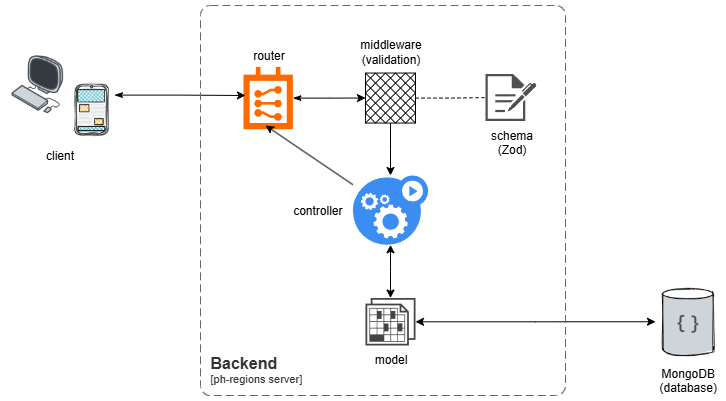
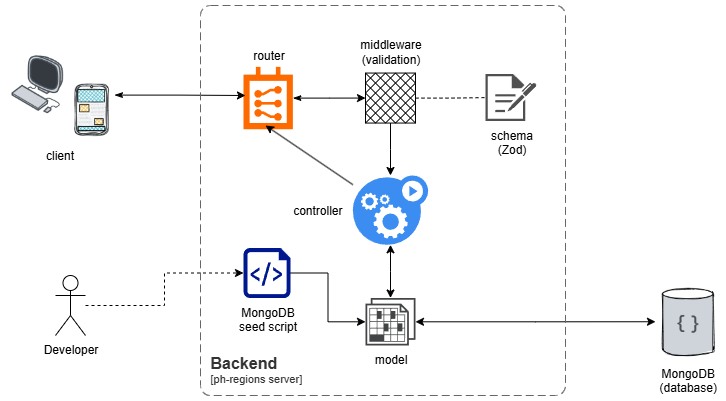
Merge pull request #20 from weaponsforge/chore/text-updates-20250922
chore: text and diagram updates

Pull request: chore: text and diagram updates
- Chore: display the MongoDB seed script in the architecture diagram
- Docs: display local development screenshots
- Docs: add a Quickstart section in the README
- Chore: update text content in the README

<!-- This is an auto-generated comment: release notes by coderabbit.ai -->
## Summary by CodeRabbit

* **Documentation**
  * Added Online Demo section with REST API URL and links to static and interactive API docs.
  * Introduced Quickstart with Docker-first setup, building/running containers, seeding, and access instructions; updated Installation/Seed steps accordingly.
  * Added Local Development Screenshots and clarified OpenAPI doc generation notes (adjusted compose line references).
  * Expanded “Adding New Endpoints” guidance (Zod meta/examples, typing, validation middleware, OpenAPI linking, clearer HTTP location names).
  * Updated core libraries table; added assets/README and refreshed architecture diagram to include seed script and developer flow.
<!-- end of auto-generated comment: release notes by coderabbit.ai -->

diff --git a/README.md b/README.md
@@ -9,6 +9,13 @@ A RESTful API that serves **hierarchical location data** of the Philippines — 
[1 lines of base64/hex data omitted]
 <!-- DeepWiki badge generated by https://deepwiki.ryoppippi.com/ -->
 
+### Online Demo
+
+- REST API: <https://ph-regions.vercel.app/api>
+- API documentation
+  - Static: <https://ph-regions.vercel.app>
+  - Interactive: <https://ph-regions.vercel.app/docs>
+
 <br>
 
 <div align="center">
@@ -18,18 +25,19 @@ A RESTful API that serves **hierarchical location data** of the Philippines — 
 </div>
 <br>
 
-### Online Deployments
+### Local Development Screenshots
 
-- REST API: <https://ph-regions.vercel.app/api>
-- API documentation
-   - Static: <https://ph-regions.vercel.app>
-   - Interactive: <https://ph-regions.vercel.app/docs>
+<p align="center">
+   <img src="assets/ph_regions_ss_01.png" width="45%" loading="lazy" alt="Static API docs screenshot" />
+   <img src="assets/ph_regions_ss_02.png" width="45%" loading="lazy" alt="Interactive API docs screenshot" />
+</p>
 
 ### Table of Contents
 
 - [Requirements](#-requirements)
 - [Core Libraries/Frameworks](#-core-librariesframeworks)
 - [Project Folder Structure](#-project-folder-structure)
+- [Quickstart](#-quickstart)
 - [Installation](#️-installation)
 - [Usage](#-usage)
    - [Using Docker](#-using-docker)
@@ -63,9 +71,9 @@ We welcome contributions! Please see [CONTRIBUTING.md](./CONTRIBUTING.md) for gu
 | tsx | `4.20.3` | Executes TypeScript and TSX files directly, ideal for dev and script running. |
 | tsc-alias | `1.8.16` | Rewrites path aliases in compiled TypeScript output (`tsconfig` paths). |
 | ESlint | `9.32.0` | Linting tool that enforces code style, quality, and formatting rules. |
-| @asteasolutions/zod-to-openapi | `8.1.0` | Generates an OpenAPI yaml file from Zod schemas. |
-| @redocly/cli | `2.1.0` | Generates an API documentation using an OpenAPI yaml input. |
-| swagger-ui-express | `4.1.8` | Generates a Swagger UI API documentation using an OpenAPI json input. |
+| @asteasolutions/zod-to-openapi | `8.1.0` | Generates OpenAPI YAML and JSON files from Zod schemas. |
+| @redocly/cli | `2.1.0` | Generates an API documentation using an OpenAPI YAML input. |
+| swagger-ui-express | `4.1.8` | Generates a Swagger UI API documentation using an OpenAPI JSON input. |
 
 </details>
 <br>
@@ -89,6 +97,25 @@ The main app is inside the `📂 server/src` folder.
 - 🖥️ `server.ts` - Starts the server and listens for requests
 
 <br>
+
+## 🆕 Quickstart
+
+Follow these steps to set up and use the code repository easily. Read the [Installation](#️-installation) section for detailed setup and usage instructions.
+
+1. Create a `.env` file in the `/server` directory, copying the contents of the `.env.example` file.
+
+2. Build the development images.<br>
+`docker compose build`
+
+3. Run the development containers.<br>
+`docker compose up`
+
+4. Create initial data.<br>
+`docker exec -it weaponsforge-ph-regions npm run seed`
+
+5. Access the available resources:
+   - REST API documentation: http://localhost:3001
+   - REST API endpoints: http://localhost:3001/api
 
 ## 🛠️ Installation
 
@@ -121,8 +148,8 @@ The main app is inside the `📂 server/src` folder.
 
 4. Seed (create) the initial data set.<br>
    - This step requires running the `"npm run seed"` script.
-   - Proceed to the [**"Using Docker"**](#-using-docker) section for more information on running the app using Docker.
-   - Run the command after successfully running the server app from **Usage - Using Docker - step # 3**.
+   - Proceed to the [**"Using Docker"**](#-using-docker) section for more information on running the app first using Docker.
+   - Run the command after successfully running the server app using Docker from [A. Use Pre-Built Development Docker Image](#a-use-pre-built-development-docker-image) or [B. Build the Development Docker Image](#b-build-the-development-docker-image).
       ```sh
       docker exec -it weaponsforge-ph-regions npm run seed
       ```
@@ -285,7 +312,7 @@ Runs the database seeder script, inserting initial data contents to the database
 
 Generates the OpenAPI `openapi.yaml` (YAML) and `openapi.json` (JSON) files into the `/server/public` directory.
 
-> 💡 **NOTE:** Comment out **Line #20, [public folder volume]** in the `docker-compose.yml` file to update the `"/server/public/openapi.yaml"` and `"/server/public/openapi.json"` files in the host volume.
+> 💡 **NOTE:** Comment out **Line #21, under [public folder volume]** in the `docker-compose.yml` file to update the `"/server/public/openapi.yaml"` and `"/server/public/openapi.json"` files in the host volume.
 
 ### `npm run docs:build`
 
@@ -295,13 +322,13 @@ Builds the API documentation using the [Redocly CLI](https://www.npmjs.com/packa
 
 Standard NPM build script that runs transpile, builds OpenAPI docs, and copies Swagger UI assets (`transpile` + `docs:build` + `docs:swagger`).
 
-> 💡 **NOTE:** Comment out **Line #20 under [public folder volume]** in the `docker-compose.yml` file when running this script via Docker to resolve `EACCES: permission denied` errors.
+> 💡 **NOTE:** Comment out **Line #21 under [public folder volume]** in the `docker-compose.yml` file when running this script via Docker to resolve `EACCES: permission denied` errors.
 
 ### `npm run docs:swagger`
 
 Copies the minimal Swagger UI assets (CSS/JS) from `node_modules` into `/public/docs`. The page `public/docs/index.html` references these assets and the generated OpenAPI spec in `/public/openapi.json`
 
-> 💡 **NOTE:** Comment out **Line #20, [public folder volume]** in the `docker-compose.yml` file when running this script via Docker to resolve `EACCES: permission denied` errors.
+> 💡 **NOTE:** Comment out **Line #21, under [public folder volume]** in the `docker-compose.yml` file when running this script via Docker to resolve `EACCES: permission denied` errors.
 
 </details>
 <br>
@@ -348,17 +375,18 @@ Follow the steps for adding (or editing) new endpoints to the API.
 <details>
 <summary>👉 Click to view the guidelines</summary>
 
-1. **Create a Zod schema**<br>
-Follow the patterns in the `📐 schemas` directory (e.g., `province.schema.ts`).
-
-2. **Create a Mongoose model**<br>
-Follow the patterns in the `🧊 models` directory (e.g., `province.model.ts`).
+1. **Create a Zod schema**
+   - Follow the patterns in the `📐 schemas` directory (e.g., `province.schema.ts`).
+   - Ensure each schema field has a Zod `.meta()` attached, with a `description` key containing a short description of the field, and an `example`.
+2. **Create a Mongoose model**
+   - Follow the patterns in the `🧊 models` directory (e.g., `province.model.ts`).
+   - The Zod-inferred type (`z.infer()`) of the **Zod Schema** created in **step # 1** should be used to type-cast this model's **Mongoose Schema**.
 
 3. **Set up routes (API endpoints)**<br>
 Add new routes for the model in the `🪧 routes` directory (e.g., `/routes/province.ts`) **without input validation** for now.
 
 4. **Define query, response, and request schemas**<br>
-Create Zod schemas for query, response, params, and body in:<br>
+Create Zod schemas for HTTP query, response, params, and body in:<br>
 `server/src/scripts/openapi/docs/api.schema.ts`
 
    > 💡 **INFO**<br>

diff --git a/assets/README.md b/assets/README.md
@@ -1,0 +1,11 @@
+## assets
+
+This folder contains media assets used within the repository.
+
+### Notes
+
+- The `architecture.drawio` file was created using [draw.io](https://www.drawio.com/) v28.1.2.
+   > Export `assets/architecture.drawio` to `assets/architecture.png` (**File** → **Export as** → **PNG**) whenever the diagram changes.
+
+@weaponsforge<br>
[phone redacted]